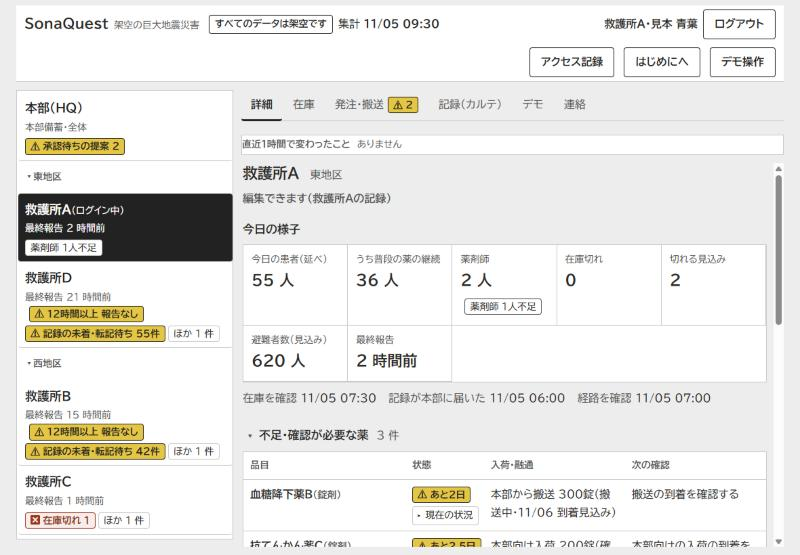
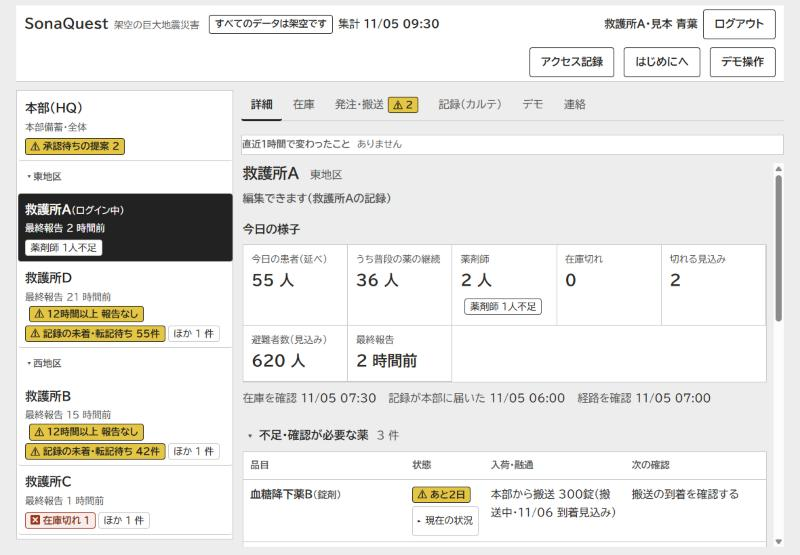
ボードの表の「現在の状況」のボタンを高さ 44px にし、測り直す（Issue #159 第2段）

Changed region(s): [[0.5, 0.9189, 0.9375, 1.0], [0.3125, 0.9495, 0.4375, 1.0]]

diff --git a/web/src/board/board.css b/web/src/board/board.css
@@ -3598,7 +3598,7 @@
 }
 .board-action-table .board-action-toggle {
   display: flex;
-  min-height: 28px;
+  min-height: 44px;
   margin-top: 4px;
   white-space: nowrap;
 }

diff --git a/docs/STATUS.md b/docs/STATUS.md
@@ -1,6 +1,6 @@
 # 進捗（STATUS）
 
-最終更新：2026-11-06（Issue #159 の第2段：ボードの画面を短くした。左の救護所の一覧は、救護所名・最終報告の時刻と、いちばん大事な状態1つ＋「ほか N 件」にした（在庫切れは「在庫切れ 1」のまま残る）。本部の全体は、数字の列 → 確認・手配が必要な事項 → 承認待ちの発注提案 → 模式図 → 患者の受け入れの順にし、「救護所の不足状況」を数字の列の下の補助の1行に下げた。確認・手配が必要な事項の表は初めは4列（救護所・品目／状態／入荷・融通／次の確認。言葉は今のまま）にし、現地・本部の数量や必要な数などの根拠は「現在の状況」のボタンで行を開いて見せる。救護所の詳細の不足の一覧も同じ表にした。`.board-panel` の高さ（本部の全体）は 1180×820 で 4345px → 3623px、1024×768 で 4976px → 3702px、幅375px のページ全体で 7415px → 6198px。救護所Aの詳細は 1727px → 1365px、1946px → 1629px、2792px → 2670px。左の一覧は 1180×820 で 747px → 662px。3つの幅とも横にはみ出さない（`docs/images/board/board-159s2-*.jpg`）。単体試験 922件・typecheck・build が通る。架空データ・算数・権限の判定・Worker・ログ・保存は変えていない。ADR-0042 の追記）
+最終更新：2026-11-06（Issue #159 の第2段：ボードの画面を短くした。左の救護所の一覧は、救護所名・最終報告の時刻と、いちばん大事な状態1つ＋「ほか N 件」にした（在庫切れは「在庫切れ 1」のまま残る）。本部の全体は、数字の列 → 確認・手配が必要な事項 → 承認待ちの発注提案 → 模式図 → 患者の受け入れの順にし、「救護所の不足状況」を数字の列の下の補助の1行に下げた。確認・手配が必要な事項の表は初めは4列（救護所・品目／状態／入荷・融通／次の確認。言葉は今のまま）にし、現地・本部の数量や必要な数などの根拠は「現在の状況」のボタンで行を開いて見せる。救護所の詳細の不足の一覧も同じ表にした。`.board-panel` の高さ（本部の全体）は 1180×820 で 4345px → 3639px、1024×768 で 4976px → 3706px、幅375px のページ全体で 7415px → 6228px。救護所Aの詳細は 1727px → 1397px、1946px → 1627px、2792px → 2714px。左の一覧は 1180×820 で 747px → 662px。3つの幅とも横にはみ出さない（`docs/images/board/board-159s2-*.jpg`）。単体試験 922件・typecheck・build が通る。架空データ・算数・権限の判定・Worker・ログ・保存は変えていない。ADR-0042 の追記）
 最終更新：2026-11-06（Issue #143（B-11）のオーナー決定の反映：計画書 `docs/board-design-plan.md` 9章のマーカーに、2026-11-06 のオーナー決定（チャット）の行を足した（マーカーは残る。解除は別の PR）。画面は、上の帯に架空の災害名「架空の巨大地震災害」を出し副題「各救護所の状況」を外した。「前回から変わったこと」を「直近1時間で変わったこと」にし、デモの時計の直前1時間の出来事だけを数えて常に出す（無いときは「ありません」）。カルテの確認状態の「（確認待ち）」を「（人のレビュー待ち）」にした。在庫の「3日未満」の赤と需要の棒の赤を黄にし、赤は在庫切れなど止まっているものだけにした（凡例は「切れ」「5日未満」「5日以上」）。記録の未着・転記待ちは1件以上なら黄。2回目の決定で、本部の数字の1列目を「救護所の不足状況」（「在庫 N か所」「薬剤師 N か所」の2行）にし、1180 幅より狭いときは列の短い見出し（「不足状況」「在庫切れ・見込み」「承認待ち」「未着・転記待ち」「報告が古い」）を出す。帯は「救護所A・見本 青葉」「集計 11/05 09:30」「アクセス記録」「はじめにへ」と短くし、読み上げには全文を残した。帯は今の文言と 16px では 1180 幅でも1行に入らず、災害名を切らずにボタンを2行目に送る（約 113px）。ADR-0055 に追記。単体試験 922件・typecheck・build が通り、1180×820 と 1024×768 を撮った（`docs/images/board/board-143-decisions-*.jpg`）。ログイン中の表示とアクセス記録の置き方は判断待ち）
 最終更新：2026-11-06（Issue #186：掲示板チャットの本部の吹き出しを白の面と濃い枠にした。本部の吹き出しの色（`--cream`）が #143 の見直しで会話欄の地と同じ色になり、透けて見えていた。`chat.css` だけの変更。単体試験 918件とビルドが通り、幅1280px と 375px の画面で確かめた）
 最終更新：2026-11-06（Issue #188：`CLAUDE.md` と `.claude/rules/` を、STATUS・decisions の最新の内容にそろえた。privacy.md と safety.md に、カルテの抽出型の要約と監査（B-10、ADR-0052・0053）の例外を足した。scope.md では、発注の提案の承認・却下（デモの中、HQ だけ）を「作らないもの」と分けて書き、HQ のログインを足し、B-09〜B-11 を「凍結の前の例外」にそろえ（オーナー決定）、ボードを「試作」と呼ぶのをやめた。CLAUDE.md の冒頭は、文字と声の2つの答え方と、ボードの1文にした（オーナー決定）。ADR-0050 の題と決定1も「凍結の前の例外」に直した。アプリのコードは変えていない）

diff --git a/docs/KEEP-THINKING.md b/docs/KEEP-THINKING.md
@@ -808,7 +808,7 @@
 
 ## 2026-11-06 Issue #159 の第2段（ボードの一覧と表を短くする）
 - きっかけ：第1段（PR #166）の後も、本部の全体は確認・手配の一覧12行が長く、左の救護所の一覧も印が2つ以上並んでいた。オーナーが凍結の前に第2段を入れるよう指示した（2026-11-06、チャット）。
-- やったこと：左の一覧の印をいちばん大事な状態1つと「ほか N 件」にした。確認・手配の表を4列にし、数量と根拠は行を開いて見せるようにした（救護所の詳細も同じ表）。本部の全体は、模式図を患者の受け入れより上に移し、「救護所の不足状況」を数字の列の下の補助の1行に下げた。`.board-panel` の高さは本部の全体で 1180×820 が 4345px → 3623px、1024×768 が 4976px → 3702px、375px のページ全体が 7415px → 6198px。
+- やったこと：左の一覧の印をいちばん大事な状態1つと「ほか N 件」にした。確認・手配の表を4列にし、数量と根拠は行を開いて見せるようにした（救護所の詳細も同じ表）。本部の全体は、模式図を患者の受け入れより上に移し、「救護所の不足状況」を数字の列の下の補助の1行に下げた。`.board-panel` の高さは本部の全体で 1180×820 が 4345px → 3639px、1024×768 が 4976px → 3706px、375px のページ全体が 7415px → 6228px。
 - 気づき：列の名前は Issue の案（在庫の目安・手配状況・次の対応）ではなく今の言葉のままにした。後の Issue #160 が言葉をそろえるので、ここで言い換えると二度変わる。
 - つまずいたこと：表の1列目は、ボード全体の「1列目は折り返さない」の決まり（`white-space: nowrap`）が効いて、列の幅が 500px を超えた。表だけ `table-layout: fixed` と列の割合にした。また、セルの列名（狭い幅で見出しの代わりに出すもの）が、`.board-action-now span` の `display: block` に負けて広い幅でも見えていたので、表の中だけ強い指定で隠した。
 - 残り：本部の全体でいちばん長いのは模式図（1180×820 で約 1500px）。地図の中の一覧（光っている救護所・経路・最新情報）を詰めるのは別の Issue。数字の列の補足の文（在庫切れ・見込みの内訳の式、未着・転記待ちの説明）も長いが、言葉を変えずに短くはできないので Issue #160 に残す。
